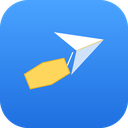
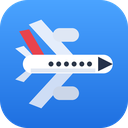
Restyle around the plane + ticket reference
Take the user's flat airplane reference (white fuselage, red tail fin, pale
swept wings, grey engines, dark nose, window row) and the "ticket" cue as the
design language:

- Icons: redraw icon16/32/48/128 as that flat top-down twin-jet on the sky tile
  (tools/make_icons.py rewritten); the silhouette and red tail stay legible at
  16px, so the toolbar, popup header and notifications now share one brand mark.
- Flying plane: swap the tail fin to red and mute the cheatline to grey, so the
  towed-banner plane matches the same livery.
- Popup: "Coming up" events become mini boarding passes — a clock stub
  (4:15 / PM), a perforated tear line with notch cut-outs, title and countdown —
  and the header gains a scalloped ticket edge.
- Removed the decorative drifting plane from the header: it overlapped the
  tagline, and the brand icon plus torn edge carry the motif without clutter.

Refreshed docs/demo.gif, docs/preview.png and docs/popup.png. Verified by
loading the packaged extension in Chromium (service worker + alarm register,
overlay injects and renders).

Claude-Session: https://claude.ai/code/session_01VPaScwsAeFB4acSnPVsN7B

Changed region(s): [[0.125, 0.1562, 0.9062, 0.8438]]

diff --git a/src/popup.css b/src/popup.css
@@ -57,19 +57,12 @@ body {
   color: #fff;
   overflow: hidden;
 }
-.hero__sky { position: absolute; inset: 0; pointer-events: none; }
-.hero__plane {
-  position: absolute; top: 16px; left: -30px; width: 22px; height: 22px;
-  opacity: 0.28; transform: rotate(6deg);
-  animation: hero-fly 9s linear infinite;
+/* torn ticket edge along the bottom of the header */
+.hero::after {
+  content: ""; position: absolute; left: 0; right: 0; bottom: 0; height: 10px;
+  background: radial-gradient(circle 6px at 12px 10px, var(--bg) 98%, transparent 100%) repeat-x;
+  background-size: 24px 10px;
 }
-@keyframes hero-fly {
-  0% { transform: translateX(0) translateY(0) rotate(6deg); opacity: 0; }
-  10% { opacity: .3; }
-  90% { opacity: .3; }
-  100% { transform: translateX(420px) translateY(-10px) rotate(6deg); opacity: 0; }
-}
-@media (prefers-reduced-motion: reduce) { .hero__plane { animation: none; opacity: .2; left: 12px; } }
 .hero__icon {
   position: relative; width: 38px; height: 38px; border-radius: 10px;
   box-shadow: 0 4px 12px rgba(0, 0, 0, 0.22);
@@ -184,14 +177,35 @@ main { padding: 13px; display: flex; flex-direction: column; gap: 11px; }
 .switch--sm input:checked + .switch__track .switch__thumb { transform: translateX(17px); }
 .hero .switch input:checked + .switch__track .switch__thumb { background: var(--brand); }
 
-/* ---- Events -------------------------------------------------------------- */
-.events { list-style: none; margin: 0; padding: 0; display: flex; flex-direction: column; gap: 7px; }
-.events li {
-  display: flex; align-items: center; justify-content: space-between; gap: 10px;
-  padding: 9px 11px; border-radius: 11px; background: var(--brand-tint);
+/* ---- Events as mini boarding passes -------------------------------------- */
+.events { list-style: none; margin: 0; padding: 0; display: flex; flex-direction: column; gap: 8px; }
+.events li.tkt {
+  display: flex; align-items: stretch; padding: 0; overflow: hidden;
+  border-radius: 12px; background: var(--brand-tint); border: 1px solid var(--line);
+}
+.tkt__stub {
+  flex: 0 0 auto; width: 58px; padding: 9px 4px;
+  display: flex; flex-direction: column; align-items: center; justify-content: center;
+  color: var(--brand-ink); background: color-mix(in srgb, var(--brand) 15%, transparent);
+}
+.tkt__time { font-size: 14.5px; font-weight: 800; line-height: 1.05; letter-spacing: -0.2px; }
+.tkt__mer { font-size: 9px; font-weight: 700; letter-spacing: 0.6px; opacity: 0.72; margin-top: 1px; }
+.tkt__perf {
+  position: relative; flex: 0 0 auto; width: 1px;
+  background: repeating-linear-gradient(to bottom, var(--line) 0 4px, transparent 4px 8px);
+}
+.tkt__perf::before, .tkt__perf::after {
+  content: ""; position: absolute; left: -4px; width: 9px; height: 9px;
+  border-radius: 50%; background: var(--card);
+}
+.tkt__perf::before { top: -5px; }
+.tkt__perf::after { bottom: -5px; }
+.tkt__body {
+  flex: 1; min-width: 0; padding: 9px 11px;
+  display: flex; flex-direction: column; justify-content: center; gap: 2px;
 }
 .events .ev__title { font-size: 13px; font-weight: 650; overflow: hidden; text-overflow: ellipsis; white-space: nowrap; }
-.events .ev__when { font-size: 12px; color: var(--brand-ink); font-weight: 700; flex: 0 0 auto; }
+.tkt__meta { font-size: 11.5px; font-weight: 700; color: var(--brand-ink); }
 
 .hint { font-size: 12px; color: var(--muted); margin: 9px 0 0; line-height: 1.45; }
 .footnote { font-size: 11.5px; color: var(--muted); text-align: center; margin: 2px 0 0; min-height: 14px; line-height: 1.45; }

diff --git a/src/popup.js b/src/popup.js
@@ -72,13 +72,23 @@ function updateLeadHint() {
   }
 }
 
-function whenLabel(minutesUntil, startISO) {
+// Relative countdown that complements the clock time on the stub.
+function relLabel(minutesUntil) {
   if (minutesUntil <= 0) return "now";
   if (minutesUntil < 60) return `in ${minutesUntil} min`;
+  const h = Math.floor(minutesUntil / 60);
+  const m = minutesUntil % 60;
+  return m ? `in ${h}h ${m}m` : `in ${h}h`;
+}
+
+// Split a start time into "5:06" + "PM" for the boarding-pass stub.
+function clockParts(startISO) {
   try {
-    return new Date(startISO).toLocaleTimeString([], { hour: "numeric", minute: "2-digit" });
+    const s = new Date(startISO).toLocaleTimeString([], { hour: "numeric", minute: "2-digit" });
+    const m = s.match(/^\s*(.+?)\s*([AP]\.?M\.?)?\s*$/i);
+    return { time: (m && m[1]) || s, mer: ((m && m[2]) || "").replace(/\./g, "").toUpperCase() };
   } catch (_) {
-    return `in ${minutesUntil} min`;
+    return { time: "--:--", mer: "" };
   }
 }
 
@@ -92,14 +102,38 @@ function renderUpcoming(upcoming) {
   }
   empty.classList.add("hidden");
   for (const ev of upcoming) {
+    const { time, mer } = clockParts(ev.startISO);
+
     const li = document.createElement("li");
-    const title = document.createElement("span");
+    li.className = "tkt";
+
+    const stub = document.createElement("div");
+    stub.className = "tkt__stub";
+    const t = document.createElement("div");
+    t.className = "tkt__time";
+    t.textContent = time;
+    stub.appendChild(t);
+    if (mer) {
+      const m = document.createElement("div");
+      m.className = "tkt__mer";
+      m.textContent = mer;
+      stub.appendChild(m);
+    }
+
+    const perf = document.createElement("div");
+    perf.className = "tkt__perf";
+
+    const body = document.createElement("div");
+    body.className = "tkt__body";
+    const title = document.createElement("div");
     title.className = "ev__title";
     title.textContent = ev.title;
-    const when = document.createElement("span");
-    when.className = "ev__when";
-    when.textContent = whenLabel(ev.minutesUntil, ev.startISO);
-    li.append(title, when);
+    const meta = document.createElement("div");
+    meta.className = "tkt__meta";
+    meta.textContent = relLabel(ev.minutesUntil);
+    body.append(title, meta);
+
+    li.append(stub, perf, body);
     list.appendChild(li);
   }
 }

diff --git a/src/content.js b/src/content.js
@@ -95,8 +95,8 @@
       <!-- top highlight + belly shade for volume -->
       <path d="M 648,87 C 710,83 776,83 824,88 C 776,85.5 710,85.5 648,87 Z" fill="#ffffff" opacity=".5"/>
       <path d="M 626,120 C 704,124.5 782,124 836,118 C 786,122 704,123 626,120 Z" fill="#adbbcd" opacity=".55"/>
-      <!-- blue cheatline -->
-      <path d="M 628,103.5 C 704,106.5 788,106.5 838,102.5" fill="none" stroke="url(#fb-tail)" stroke-width="2.6" stroke-linecap="round" opacity=".92"/>
+      <!-- cheatline -->
+      <path d="M 628,103.5 C 704,106.5 788,106.5 838,102.5" fill="none" stroke="#c3d0df" stroke-width="2.4" stroke-linecap="round"/>
       <!-- passenger windows -->
       <line x1="666" y1="98" x2="814" y2="98" stroke="#53667e" stroke-width="3.2" stroke-linecap="round" stroke-dasharray="2 6.2"/>
       <!-- cockpit windscreen -->
@@ -128,7 +128,7 @@
           <stop offset="0" stop-color="#e6ebf2"/><stop offset="1" stop-color="#b1bfd0"/>
         </linearGradient>
         <linearGradient id="fb-tail" x1="0" y1="0" x2="0" y2="1">
-          <stop offset="0" stop-color="#4a90ff"/><stop offset="1" stop-color="#1b58c6"/>
+          <stop offset="0" stop-color="#f4565f"/><stop offset="1" stop-color="#cf2f3a"/>
         </linearGradient>
         <linearGradient id="fb-ban" x1="0" y1="0" x2="0" y2="1">
           <stop offset="0" stop-color="#ffffff"/><stop offset="1" stop-color="#e9edf3"/>

diff --git a/src/popup.html b/src/popup.html
@@ -8,11 +8,6 @@
   </head>
   <body>
     <header class="hero">
-      <div class="hero__sky" aria-hidden="true">
-        <svg class="hero__plane" viewBox="0 0 24 24" fill="none">
-          <path d="M2 13.5l19-8-8 19-2.2-8.8L2 13.5z" fill="#fff" fill-opacity=".9"/>
-        </svg>
-      </div>
       <img class="hero__icon" src="../icons/icon48.png" alt="" />
       <div class="hero__text">
         <h1>Flyby</h1>

diff --git a/tools/make_icons.py b/tools/make_icons.py
@@ -1,14 +1,14 @@
 #!/usr/bin/env python3
 """Generate Flyby's extension icons.
 
-Draws a little paper airplane towing a banner on a sky-blue rounded tile and
-writes icon16/32/48/128.png into ../icons. Everything is rendered on a
-super-sampled canvas and downscaled with LANCZOS so the small sizes stay crisp.
+Draws a flat, top-down twin-jet (white fuselage, red tail fin, pale swept wings,
+grey engines, dark nose) on a sky-blue rounded tile, and writes
+icon16/32/48/128.png into ../icons. Everything is rendered on a super-sampled
+canvas and downscaled with LANCZOS so the small sizes stay crisp.
 
 Run:  python3 tools/make_icons.py
 """
 
-import math
 import os
 
 from PIL import Image, ImageDraw
@@ -16,21 +16,31 @@ from PIL import Image, ImageDraw
 HERE = os.path.dirname(os.path.abspath(__file__))
 ICON_DIR = os.path.join(HERE, "..", "icons")
 
-# Sky gradient (top -> bottom) and the plane / banner colors.
 SKY_TOP = (74, 163, 255)      # #4aa3ff
 SKY_BOTTOM = (30, 111, 224)   # #1e6fe0
-PLANE = (255, 255, 255)
-PLANE_FOLD = (208, 226, 250)  # subtle shade for the origami fold
-BANNER = (255, 214, 92)       # warm banner behind the plane
-BANNER_EDGE = (240, 180, 40)
 
+WING_U = (228, 237, 251)
+WING_L = (206, 221, 245)
+TAILPLANE_U = (233, 240, 251)
+TAILPLANE_L = (213, 225, 243)
+FIN_RED = (232, 67, 77)
+BODY = (255, 255, 255)
+BELLY = (225, 232, 243)
+NOSE = (38, 50, 74)
+ENGINE_U = (223, 231, 244)
+ENGINE_L = (203, 214, 232)
+WINDOW = (43, 54, 72)
 
-def rotate(point, angle_deg, cx, cy):
-    a = math.radians(angle_deg)
-    x, y = point[0] - cx, point[1] - cy
-    rx = x * math.cos(a) - y * math.sin(a)
-    ry = x * math.sin(a) + y * math.cos(a)
-    return (rx + cx, ry + cy)
+# Artwork authored in a 64-unit space, plane pointing right.
+ART_X0, ART_X1 = 5.5, 56.0
+ART_Y0, ART_Y1 = 9.0, 55.0
+
+WING_UPPER = [(37, 29), (19, 9), (12.5, 11.5), (28.5, 29)]
+WING_LOWER = [(37, 35), (19, 55), (12.5, 52.5), (28.5, 35)]
+TAIL_UPPER = [(13, 30), (5.5, 24), (9.8, 22.6), (16.2, 29.4)]
+TAIL_LOWER = [(13, 34), (5.5, 40), (9.8, 41.4), (16.2, 34.6)]
+FIN = [(16, 29.5), (7.5, 15), (12.6, 14), (21.5, 29)]
+NOSE_TIP = [(48.5, 28.3), (56, 32), (48.5, 35.7)]
 
 
 def vertical_gradient(size, top, bottom):
@@ -56,53 +66,48 @@ def build(size):
     # Rounded sky tile.
     tile = vertical_gradient(S, SKY_TOP, SKY_BOTTOM).convert("RGBA")
     mask = Image.new("L", (S, S), 0)
-    ImageDraw.Draw(mask).rounded_rectangle(
-        [0, 0, S - 1, S - 1], radius=int(S * 0.22), fill=255
-    )
+    ImageDraw.Draw(mask).rounded_rectangle([0, 0, S - 1, S - 1], radius=int(S * 0.22), fill=255)
     img.paste(tile, (0, 0), mask)
 
     draw = ImageDraw.Draw(img)
-    cx, cy = S / 2, S / 2
-    ang = -22  # tilt the whole scene so the plane climbs to the upper-right
 
-    # --- Banner trailing behind the plane (a little wavy pennant) ---
-    bx = S * 0.18   # banner left edge
-    bw = S * 0.34   # banner width
-    by = S * 0.52   # banner vertical center
-    bh = S * 0.13   # banner height
-    wob = S * 0.03
-    banner = [
-        (bx, by - bh / 2),
-        (bx + bw * 0.5, by - bh / 2 - wob),
-        (bx + bw, by - bh / 2),
-        (bx + bw, by + bh / 2),
-        (bx + bw * 0.5, by + bh / 2 + wob),
-        (bx, by + bh / 2),
-    ]
-    banner = [rotate(p, ang, cx, cy) for p in banner]
-    draw.polygon(banner, fill=BANNER, outline=BANNER_EDGE, width=max(1, ss))
+    # Fit the artwork into ~76% of the tile, centred.
+    art_w, art_h = ART_X1 - ART_X0, ART_Y1 - ART_Y0
+    scale = (0.76 * S) / art_w
+    off_x = (S - art_w * scale) / 2 - ART_X0 * scale
+    off_y = (S - art_h * scale) / 2 - ART_Y0 * scale
 
-    # Tow line from banner to the plane tail.
-    line_a = rotate((bx + bw, by), ang, cx, cy)
-    line_b = rotate((S * 0.60, S * 0.44), ang, cx, cy)
-    draw.line([line_a, line_b], fill=PLANE, width=max(2, ss))
+    def P(pts):
+        return [(x * scale + off_x, y * scale + off_y) for x, y in pts]
 
-    # --- Paper airplane (nose to the right) ---
-    nose = (S * 0.86, S * 0.44)
-    top_back = (S * 0.52, S * 0.24)
-    notch = (S * 0.63, S * 0.44)
-    bot_back = (S * 0.52, S * 0.60)
+    def box(x0, y0, x1, y1):
+        return [x0 * scale + off_x, y0 * scale + off_y, x1 * scale + off_x, y1 * scale + off_y]
 
-    upper = [rotate(p, ang, cx, cy) for p in (nose, top_back, notch)]
-    lower = [rotate(p, ang, cx, cy) for p in (nose, notch, bot_back)]
-    draw.polygon(lower, fill=PLANE_FOLD)
-    draw.polygon(upper, fill=PLANE)
-    # Center fold line.
+    draw.polygon(P(WING_UPPER), fill=WING_U)
+    draw.polygon(P(WING_LOWER), fill=WING_L)
+    draw.polygon(P(TAIL_UPPER), fill=TAILPLANE_U)
+    draw.polygon(P(TAIL_LOWER), fill=TAILPLANE_L)
+    draw.polygon(P(FIN), fill=FIN_RED)
+
+    # Fuselage capsule + belly shade + dark nose.
+    draw.rounded_rectangle(box(9.4, 27.2, 56, 36.8), radius=4.8 * scale, fill=BODY)
     draw.line(
-        [rotate(nose, ang, cx, cy), rotate(notch, ang, cx, cy)],
-        fill=BANNER_EDGE,
-        width=max(1, ss // 2),
+        [(13.5 * scale + off_x, 35.4 * scale + off_y), (47 * scale + off_x, 35.4 * scale + off_y)],
+        fill=BELLY,
+        width=max(1, int(2.2 * scale)),
     )
+    draw.polygon(P(NOSE_TIP), fill=NOSE)
+
+    # Engines.
+    draw.rounded_rectangle(box(25, 13.4, 38.5, 20.4), radius=3.5 * scale, fill=ENGINE_U)
+    draw.rounded_rectangle(box(25, 43.6, 38.5, 50.6), radius=3.5 * scale, fill=ENGINE_L)
+
+    # Windows (skipped at the smallest size, where they'd turn to mush).
+    if size >= 32:
+        r = 1.25 * scale
+        for wx in (24, 28, 32, 36, 40, 44):
+            cx, cy = wx * scale + off_x, 32 * scale + off_y
+            draw.ellipse([cx - r, cy - r, cx + r, cy + r], fill=WINDOW)
 
     return img.resize((size, size), Image.LANCZOS)
 
